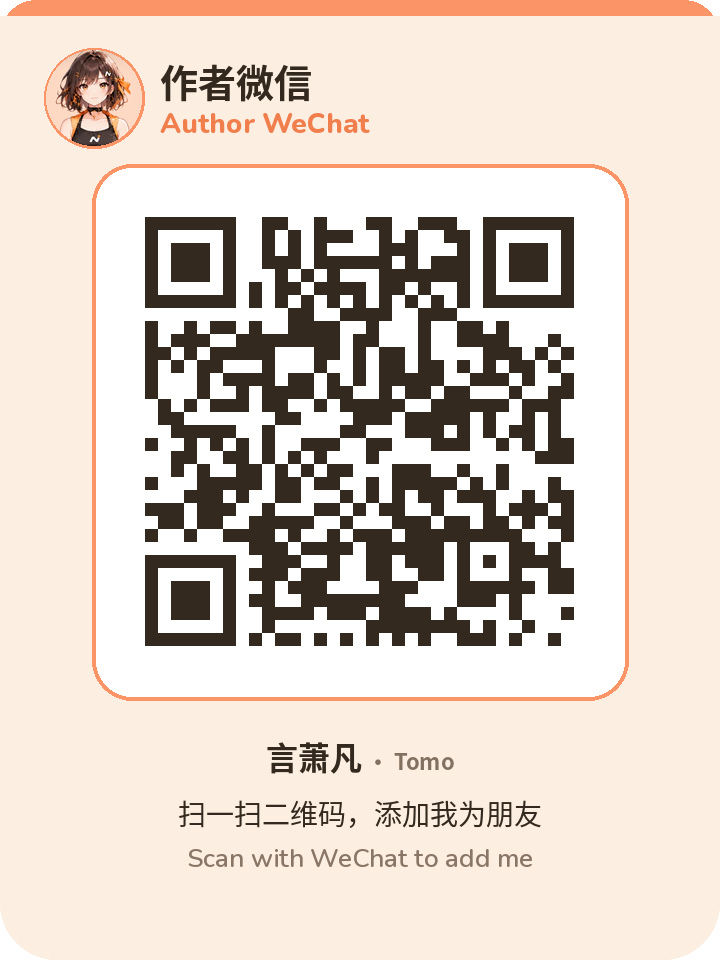
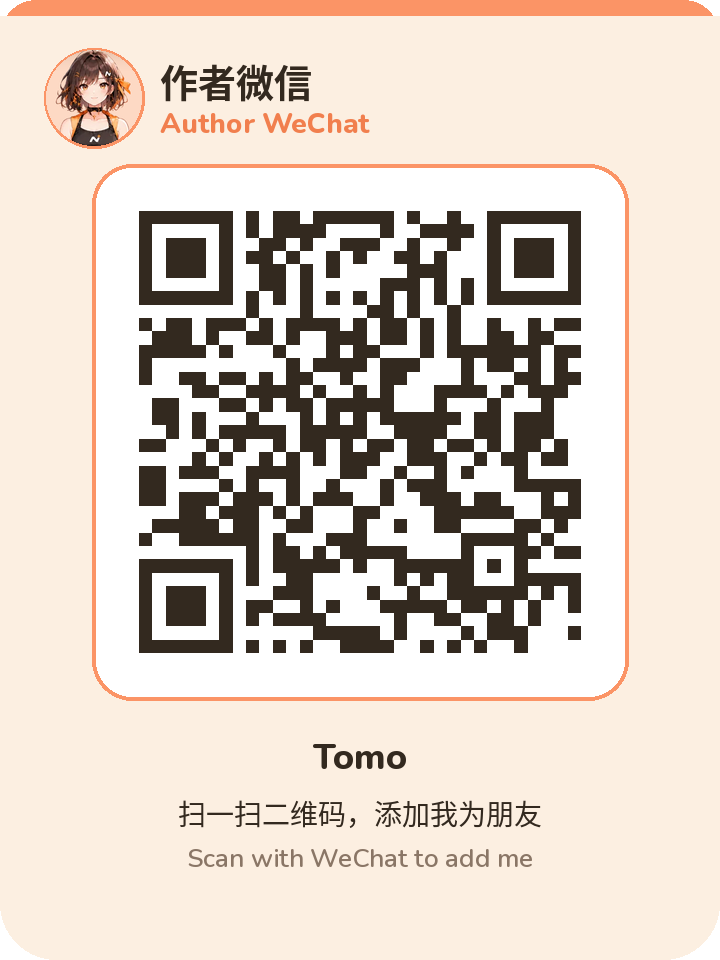
site: two author WeChat cards (言萧凡 + Tomo), group QR removed

Changed region(s): [[0.1833, 0.2188, 0.825, 0.6875], [0.3667, 0.75, 0.6417, 0.8125]]

diff --git a/index.html b/index.html
@@ -11,8 +11,8 @@
   <title>Nomi·诺米 — 让 AI 工具协同起来</title>
   <link rel="icon" href="assets/brand/nomi-mark.svg" type="image/svg+xml" />
   <link rel="preload" href="assets/fonts/nunito-latin.woff2" as="font" type="font/woff2" crossorigin />
-  <link rel="preload" as="image" href="assets/mockup/hero-bg.webp?v=20261027qr" imagesrcset="assets/mockup/hero-bg.webp?v=20261027qr 1024w, assets/mockup/hero-bg@2x.webp?v=20261027qr 2048w" imagesizes="100vw" fetchpriority="high" />
-  <link rel="stylesheet" href="css/styles.css?v=20261027qr" />
+  <link rel="preload" as="image" href="assets/mockup/hero-bg.webp?v=20261027qr2" imagesrcset="assets/mockup/hero-bg.webp?v=20261027qr2 1024w, assets/mockup/hero-bg@2x.webp?v=20261027qr2 2048w" imagesizes="100vw" fetchpriority="high" />
+  <link rel="stylesheet" href="css/styles.css?v=20261027qr2" />
 </head>
 <body data-page="home" id="top">
   <header class="site-header">
@@ -50,8 +50,8 @@
     <section class="hero hero--bleed" aria-labelledby="hero-title">
       <div class="hero-bleed-media" aria-hidden="true">
         <img
-          src="assets/mockup/hero-bg.webp?v=20261027qr"
-          srcset="assets/mockup/hero-bg.webp?v=20261027qr 1024w, assets/mockup/hero-bg@2x.webp?v=20261027qr 2048w"
+          src="assets/mockup/hero-bg.webp?v=20261027qr2"
+          srcset="assets/mockup/hero-bg.webp?v=20261027qr2 1024w, assets/mockup/hero-bg@2x.webp?v=20261027qr2 2048w"
           sizes="100vw"
           width="2048" height="768"
           alt=""
@@ -296,8 +296,12 @@
         </div>
         <div class="contact-grid">
           <figure class="contact-card">
-            <picture><source srcset="assets/contact/qr-author.webp?v=20261027qr" type="image/webp" /><img src="assets/contact/qr-author.png?v=20261027qr" width="360" height="480" loading="lazy" decoding="async" alt="作者微信 · 言萧凡（Tomo）二维码" data-i18n-alt="contact.author.alt" /></picture>
-            <figcaption data-i18n="contact.author.cap">作者微信 · 言萧凡（Tomo）</figcaption>
+            <picture><source srcset="assets/contact/qr-author-yxf.webp?v=20261027qr2" type="image/webp" /><img src="assets/contact/qr-author-yxf.png?v=20261027qr2" width="360" height="480" loading="lazy" decoding="async" alt="作者微信 · 言萧凡 二维码" data-i18n-alt="contact.yxf.alt" /></picture>
+            <figcaption data-i18n="contact.yxf.cap">作者微信 · 言萧凡</figcaption>
+          </figure>
+          <figure class="contact-card">
+            <picture><source srcset="assets/contact/qr-author.webp?v=20261027qr2" type="image/webp" /><img src="assets/contact/qr-author.png?v=20261027qr2" width="360" height="480" loading="lazy" decoding="async" alt="作者微信 · Tomo 二维码" data-i18n-alt="contact.author.alt" /></picture>
+            <figcaption data-i18n="contact.author.cap">作者微信 · Tomo</figcaption>
           </figure>
         </div>
       </div>
@@ -341,7 +345,7 @@
       </div>
     </div>
   </footer>
-  <script src="js/i18n.js?v=20261027qr"></script>
-  <script src="js/main.js?v=20261027qr"></script>
+  <script src="js/i18n.js?v=20261027qr2"></script>
+  <script src="js/main.js?v=20261027qr2"></script>
 </body>
 </html>

diff --git a/js/i18n.js b/js/i18n.js
@@ -195,14 +195,17 @@
       "nav.contact": "联系我们",
       "contactPop.title": "联系我们",
       "contactPop.close": "关闭",
-      "contactPop.author": "作者微信 · 言萧凡（Tomo）二维码",
+      "contactPop.yxf": "作者微信 · 言萧凡 二维码",
+      "contactPop.author": "作者微信 · Tomo 二维码",
       "contactPop.hint": "长按识别二维码",
       "contactPop.issues": "遇到问题或有新想法？去 GitHub Issues 反馈",
       "contact.label": "联系与交流",
       "contact.title": "联系作者",
       "contact.lead": "使用微信扫码，添加作者。",
-      "contact.author.alt": "作者微信 · 言萧凡（Tomo）二维码",
-      "contact.author.cap": "作者微信 · 言萧凡（Tomo）",
+      "contact.yxf.alt": "作者微信 · 言萧凡 二维码",
+      "contact.yxf.cap": "作者微信 · 言萧凡",
+      "contact.author.alt": "作者微信 · Tomo 二维码",
+      "contact.author.cap": "作者微信 · Tomo",
       "footer.copy": "© Nomi·诺米 · MIT",
       "page.features.label": "功能",
       "page.features.title": "Nomi 能帮你做什么",
@@ -682,14 +685,17 @@
       "nav.contact": "Contact",
       "contactPop.title": "Contact us",
       "contactPop.close": "Close",
-      "contactPop.author": "Author WeChat QR code · 言萧凡 (Tomo)",
+      "contactPop.yxf": "Author WeChat QR code · 言萧凡",
+      "contactPop.author": "Author WeChat QR code · Tomo",
       "contactPop.hint": "Long-press to scan",
       "contactPop.issues": "Found a bug or have an idea? Open a GitHub Issue",
       "contact.label": "Contact & community",
       "contact.title": "Reach the author",
       "contact.lead": "Scan with WeChat to add the author.",
-      "contact.author.alt": "Author WeChat QR code · 言萧凡 (Tomo)",
-      "contact.author.cap": "Author WeChat · 言萧凡 (Tomo)",
+      "contact.yxf.alt": "Author WeChat QR code · 言萧凡",
+      "contact.yxf.cap": "Author WeChat · 言萧凡",
+      "contact.author.alt": "Author WeChat QR code · Tomo",
+      "contact.author.cap": "Author WeChat · Tomo",
       "footer.copy": "© Nomi·诺米 · MIT",
       "page.features.label": "Features",
       "page.features.title": "What Nomi can do for you",

diff --git a/js/main.js b/js/main.js
@@ -96,7 +96,7 @@
     });
     return;
   }
-  var V = "20261027qr", pop, backdrop, built = false, opener = null;
+  var V = "20261027qr2", pop, backdrop, built = false, opener = null;
   function card(name, altKey) {
     return '<picture><source type="image/webp" data-srcset="assets/contact/' + name + '.webp?v=' + V + '" />' +
       '<img width="360" height="480" decoding="async" data-src="assets/contact/' + name + '.png?v=' + V + '" alt="" data-i18n-alt="' + altKey + '" /></picture>';
@@ -107,7 +107,7 @@
     pop.setAttribute("role", "dialog"); pop.setAttribute("aria-modal", "true"); pop.setAttribute("aria-labelledby", "contact-pop-title");
     pop.innerHTML = '<div class="cpop-head"><h2 id="contact-pop-title" data-i18n="contactPop.title">联系我们</h2>' +
       '<button type="button" class="cpop-close" data-i18n-aria-label="contactPop.close" aria-label="关闭">&times;</button></div>' +
-      '<div class="cpop-grid">' + card("qr-author", "contactPop.author") + '</div>' +
+      '<div class="cpop-grid">' + card("qr-author-yxf", "contactPop.yxf") + card("qr-author", "contactPop.author") + '</div>' +
       '<p class="cpop-hint" data-i18n="contactPop.hint">长按识别二维码</p>' +
       '<a class="cpop-issues" href="https://github.com/Cookieboty/nomi-ai/issues" target="_blank" rel="noopener noreferrer" data-i18n="contactPop.issues">遇到问题或有新想法？去 GitHub Issues 反馈</a>';
     document.body.appendChild(backdrop); document.body.appendChild(pop);

diff --git a/css/styles.css b/css/styles.css
@@ -1338,7 +1338,7 @@ code {
 .cpop {
   position: fixed; z-index: 120; top: calc(var(--header-h) + 8px);
   right: max(1.25rem, calc((100vw - var(--max)) / 2));
-  width: 380px; max-width: calc(100vw - 2rem);
+  width: 460px; max-width: calc(100vw - 2rem);
   background: var(--nomi-card); border: 1px solid var(--nomi-border-strong);
   border-radius: var(--radius); box-shadow: var(--nomi-shadow-lg); padding: 16px 18px 14px;
 }
@@ -1346,8 +1346,7 @@ code {
 .cpop-head { display: flex; align-items: center; justify-content: space-between; margin-bottom: 10px; }
 .cpop-head h2 { margin: 0; font-family: var(--font-display); font-size: 1.05rem; }
 .cpop-close { appearance: none; border: 0; background: rgba(51,41,31,.06); width: 32px; height: 32px; border-radius: 50%; cursor: pointer; font-size: 18px; line-height: 1; color: var(--nomi-ink); }
-.cpop-grid { display: grid; grid-template-columns: 1fr; justify-items: center; gap: 12px; }
-.cpop-grid picture { width: min(240px, 100%); }
+.cpop-grid { display: grid; grid-template-columns: 1fr 1fr; gap: 12px; }
 .cpop-grid img { display: block; width: 100%; height: auto; border-radius: 14px; aspect-ratio: 3 / 4; background: var(--nomi-cream); }
 .cpop-hint { display: none; text-align: center; color: var(--nomi-warm-gray); font-size: .9rem; margin: 10px 0 0; }
 .cpop-issues { display: block; margin-top: 12px; font-size: .9rem; text-align: center; }

diff --git a/features.html b/features.html
@@ -9,7 +9,7 @@
   <link rel="icon" href="assets/brand/nomi-mark.svg" type="image/svg+xml" />
   <link rel="preload" href="assets/fonts/nunito-latin.woff2" as="font" type="font/woff2" crossorigin />
   <script>document.documentElement.className+=" js"</script>
-  <link rel="stylesheet" href="css/styles.css?v=20261027qr" />
+  <link rel="stylesheet" href="css/styles.css?v=20261027qr2" />
 </head>
 <body data-page="features">
   <header class="site-header">
@@ -332,8 +332,8 @@
       </div>
     </div>
   </footer>
-  <script src="js/i18n.js?v=20261027qr"></script>
-  <script src="js/main.js?v=20261027qr"></script>
+  <script src="js/i18n.js?v=20261027qr2"></script>
+  <script src="js/main.js?v=20261027qr2"></script>
   <script src="js/features.js?v=20261026v202"></script>
 </body>
 </html>

diff --git a/changelog.html b/changelog.html
@@ -11,7 +11,7 @@
   <title>更新日志 — Nomi·诺米</title>
   <link rel="icon" href="assets/brand/nomi-mark.svg" type="image/svg+xml" />
   <link rel="preload" href="assets/fonts/nunito-latin.woff2" as="font" type="font/woff2" crossorigin />
-  <link rel="stylesheet" href="css/styles.css?v=20261027qr" />
+  <link rel="stylesheet" href="css/styles.css?v=20261027qr2" />
 </head>
 <body data-page="changelog" id="top">
   <header class="site-header">
@@ -307,7 +307,7 @@
       </div>
     </div>
   </footer>
-  <script src="js/i18n.js?v=20261027qr"></script>
-  <script src="js/main.js?v=20261027qr"></script>
+  <script src="js/i18n.js?v=20261027qr2"></script>
+  <script src="js/main.js?v=20261027qr2"></script>
 </body>
 </html>

diff --git a/download.html b/download.html
@@ -8,7 +8,7 @@
   <title>下载 — Nomi·诺米</title>
   <link rel="icon" href="assets/brand/nomi-mark.svg" type="image/svg+xml" />
   <link rel="preload" href="assets/fonts/nunito-latin.woff2" as="font" type="font/woff2" crossorigin />
-  <link rel="stylesheet" href="css/styles.css?v=20261027qr" />
+  <link rel="stylesheet" href="css/styles.css?v=20261027qr2" />
 </head>
 <body data-page="download">
   <header class="site-header">
@@ -166,7 +166,7 @@
       </div>
     </div>
   </footer>
-  <script src="js/i18n.js?v=20261027qr"></script>
-  <script src="js/main.js?v=20261027qr"></script>
+  <script src="js/i18n.js?v=20261027qr2"></script>
+  <script src="js/main.js?v=20261027qr2"></script>
 </body>
 </html>

diff --git a/privacy.html b/privacy.html
@@ -8,7 +8,7 @@
   <title>隐私 — Nomi·诺米</title>
   <link rel="icon" href="assets/brand/nomi-mark.svg" type="image/svg+xml" />
   <link rel="preload" href="assets/fonts/nunito-latin.woff2" as="font" type="font/woff2" crossorigin />
-  <link rel="stylesheet" href="css/styles.css?v=20261027qr" />
+  <link rel="stylesheet" href="css/styles.css?v=20261027qr2" />
 </head>
 <body data-page="privacy">
   <header class="site-header">
@@ -115,7 +115,7 @@
       </div>
     </div>
   </footer>
-  <script src="js/i18n.js?v=20261027qr"></script>
-  <script src="js/main.js?v=20261027qr"></script>
+  <script src="js/i18n.js?v=20261027qr2"></script>
+  <script src="js/main.js?v=20261027qr2"></script>
 </body>
 </html>

diff --git a/docs.html b/docs.html
@@ -8,7 +8,7 @@
   <title>文档 — Nomi·诺米</title>
   <link rel="icon" href="assets/brand/nomi-mark.svg" type="image/svg+xml" />
   <link rel="preload" href="assets/fonts/nunito-latin.woff2" as="font" type="font/woff2" crossorigin />
-  <link rel="stylesheet" href="css/styles.css?v=20261027qr" />
+  <link rel="stylesheet" href="css/styles.css?v=20261027qr2" />
 </head>
 <body data-page="docs">
   <header class="site-header">
@@ -237,7 +237,7 @@
       </div>
     </div>
   </footer>
-  <script src="js/i18n.js?v=20261027qr"></script>
-  <script src="js/main.js?v=20261027qr"></script>
+  <script src="js/i18n.js?v=20261027qr2"></script>
+  <script src="js/main.js?v=20261027qr2"></script>
 </body>
 </html>
